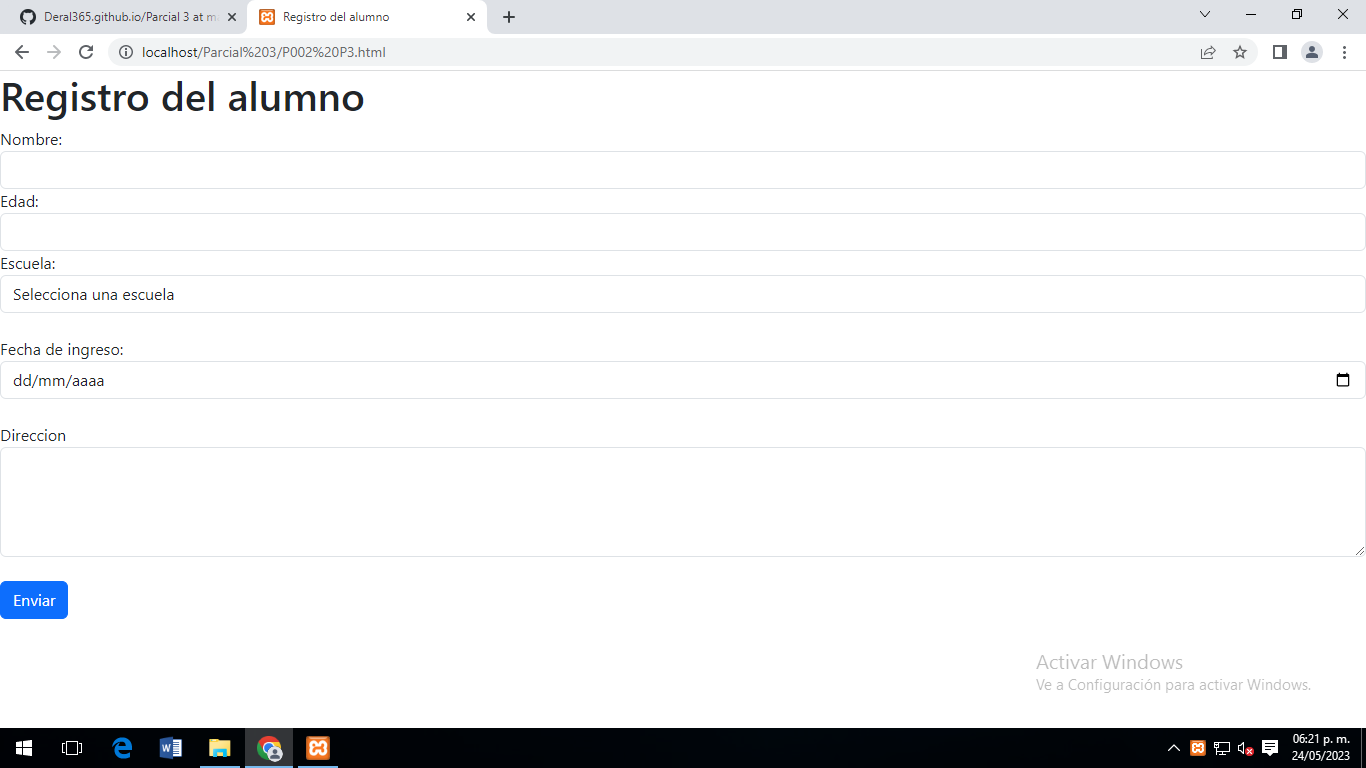
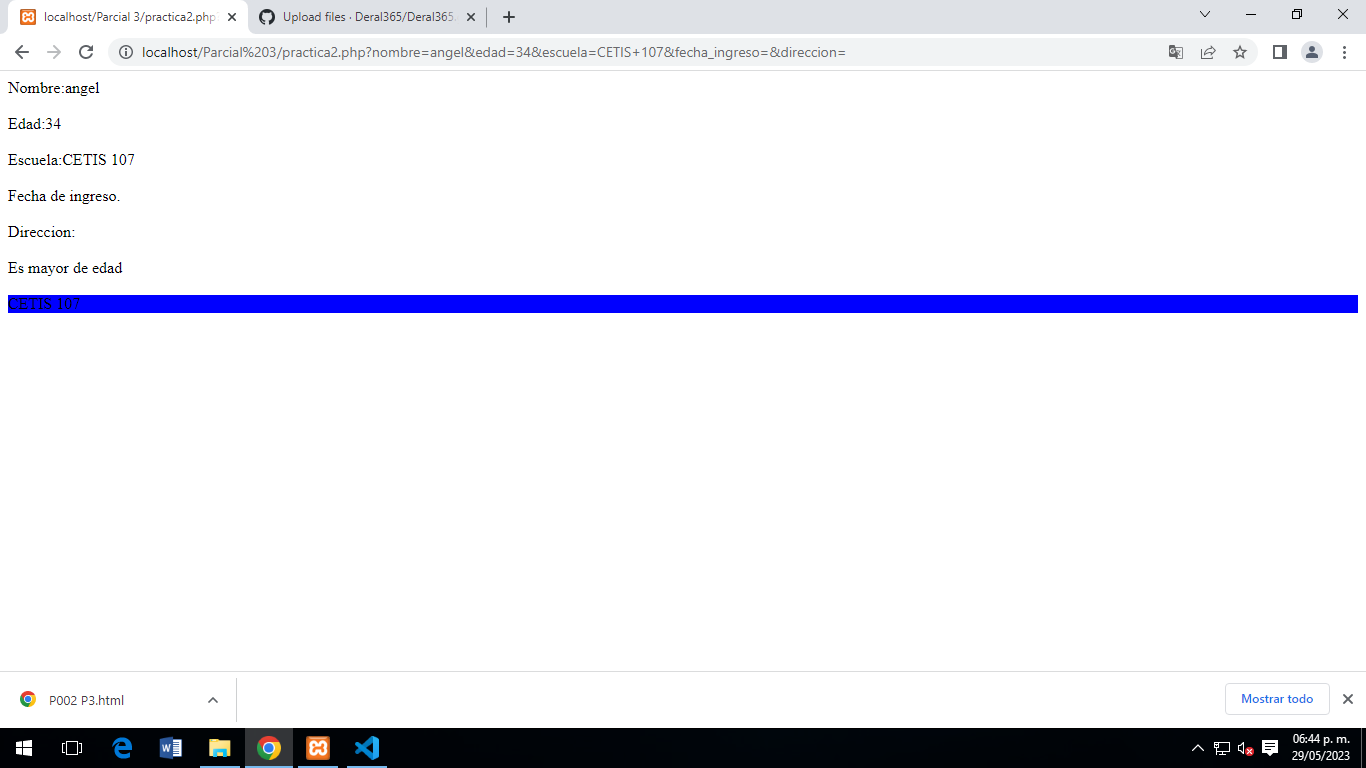
Practica 2 29/055/23

diff --git a/Parcial 3/P002 P3.html b/Parcial 3/P002 P3.html
@@ -10,7 +10,7 @@
 <body>
     <h1>Registro del alumno</h1>
     <div>
-    <form action="">
+    <form action="practica2.php" method="GET">
         <div class="form-group">
             <label for="">Nombre:</label>
             <input name="nombre" type="text" class="form-control">
@@ -24,8 +24,8 @@
                            <select name="escuela" class="form-control">
                                <option value="">Selecciona una escuela</option>
                                <option value="CETIS 107">Cetis 107</option>
-                               <option value="CETIS 107">CBTIS 224</option>
-                               <option value="CETIS 107">Cobaes</option>
+                               <option value="CBTIS 224">CBTIS 224</option>
+                               <option value="COBAES">COBAES</option>
                            </select>
                                 </div>
                                 <br>

diff --git a/Parcial 3/practica2.php b/Parcial 3/practica2.php
@@ -1,0 +1,32 @@
+<?php
+$nombre = $_GET["nombre"];
+echo "Nombre:" .$nombre . "<br><br>";
+
+$edad = $_GET["edad"];
+echo "Edad:" .$edad . "<br><br>";
+
+$escuela = $_GET["escuela"];
+echo "Escuela:" .$escuela . "<br><br>";
+
+$fecha_ingreso = $_GET["fecha_ingreso"];
+echo "Fecha de ingreso." .$fecha_ingreso . "<br><br>";
+
+$direccion = $_GET["direccion"];
+echo "Direccion:" .$direccion . "<br><br>";
+
+if($edad >= 18){
+    echo "Es mayor de edad" . "<br><br>";
+}else{
+    echo "Eres menor de edad" . "<br><br>";
+}
+if($escuela == "CETIS 107"){
+    echo "<div style='background-color:blue;'>CETIS 107</div>";
+}else if($escuela == "CBTIS 224"){
+    echo "<div style='background-color:red;'>CBTIS 224</div>";
+}else if($escuela == "COBAES"){
+    echo "<div style='background-color:green;'>COBAES</div>";
+}
+
+
+
+?>
